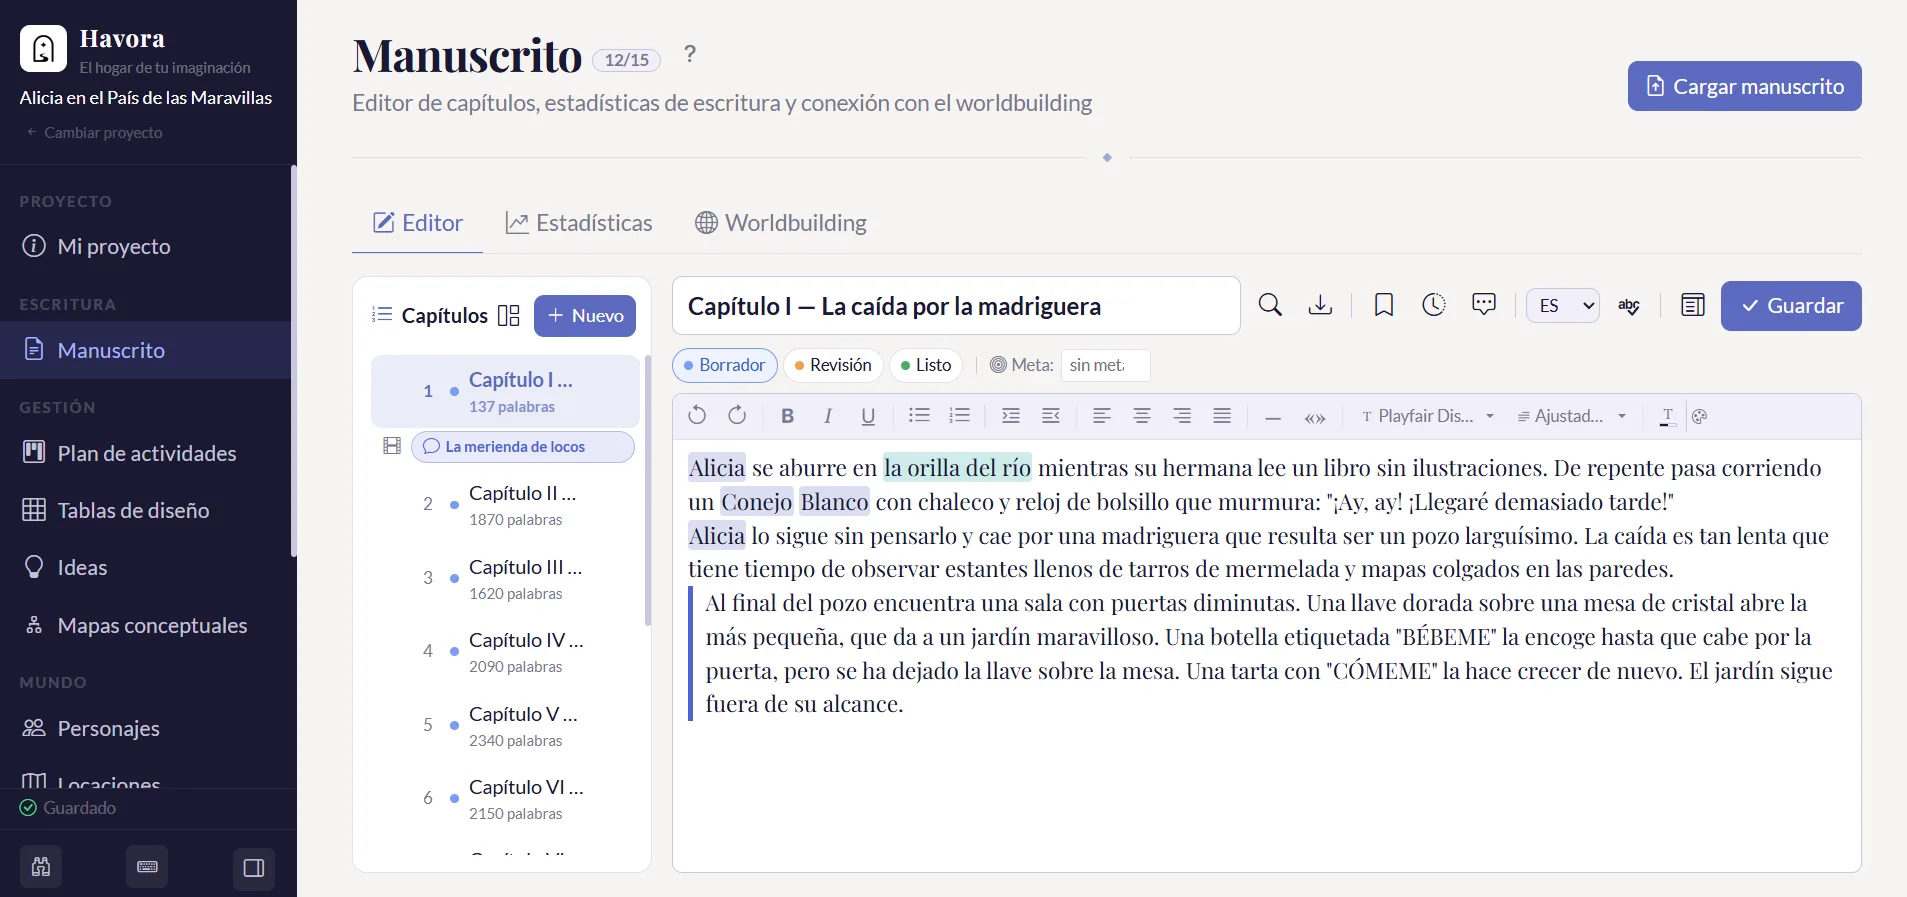
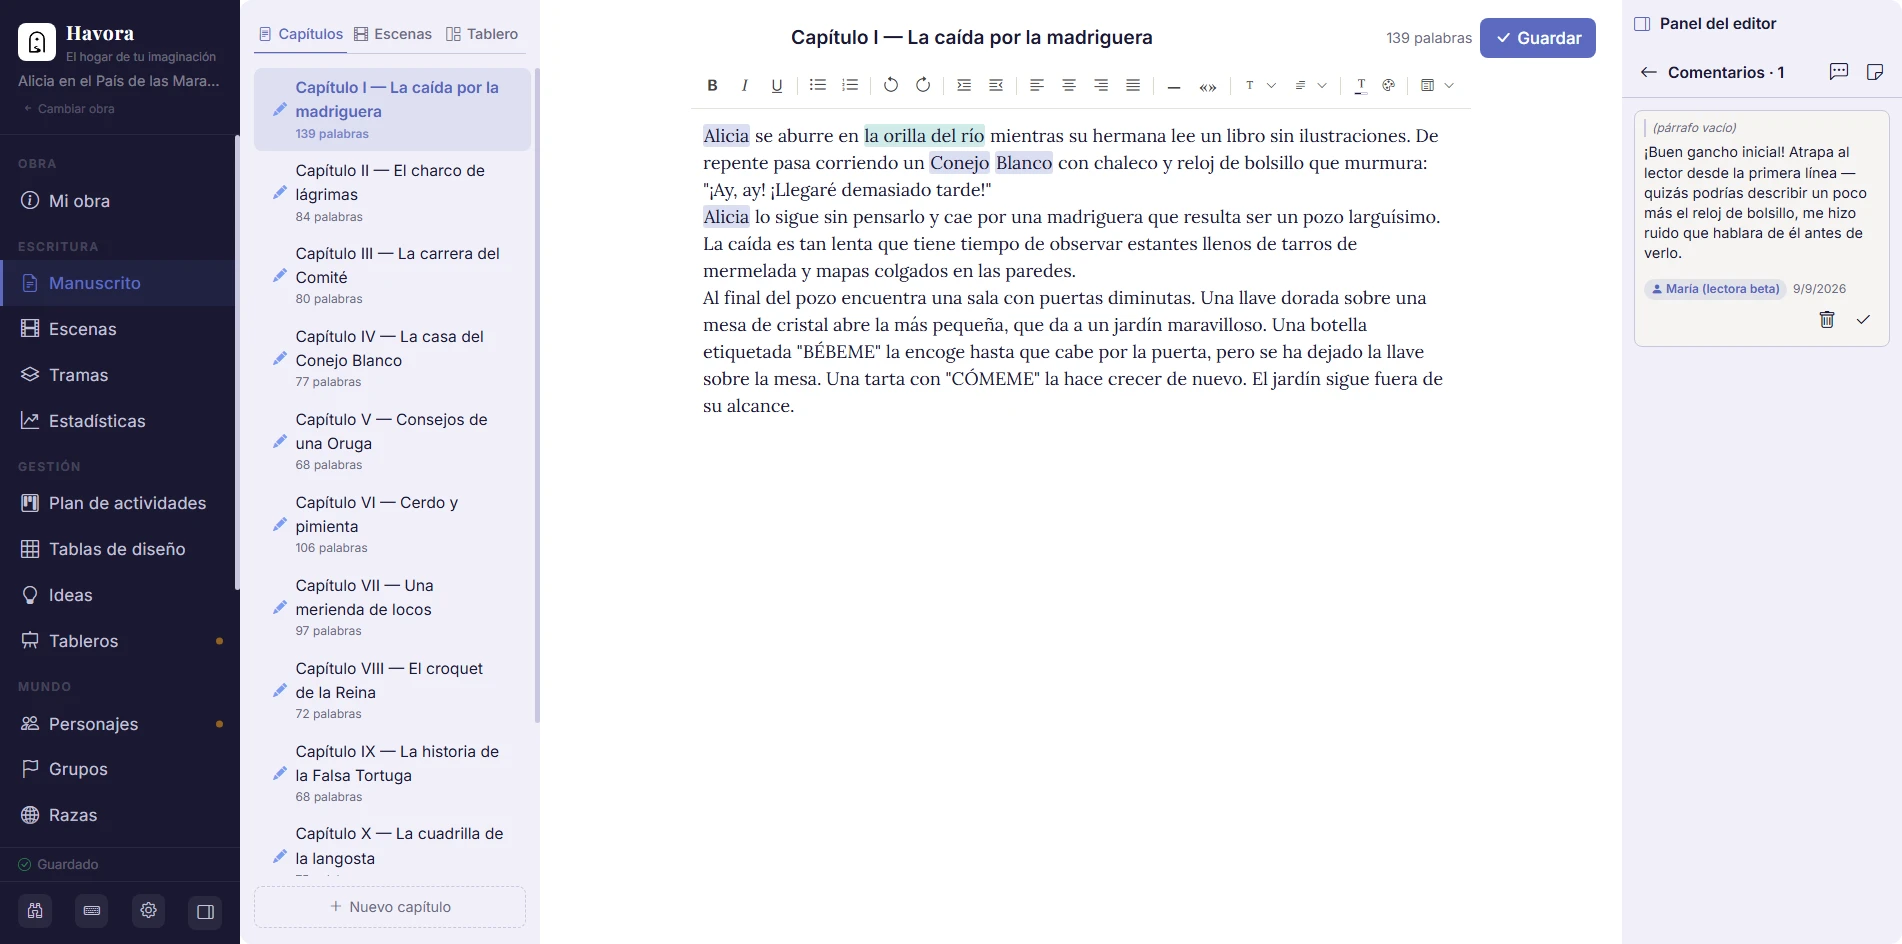
feat: solo Microsoft Store — saca la descarga directa del .exe y la sección de SmartScreen
- Nav, hero, tarjeta Gratis y CTA final apuntan solo a la Microsoft Store (antes mezclaban un
  link directo al .exe de GitHub Releases con la Store).
- El hero usa el badge oficial "Consíguelo en Microsoft Store" (más peso visual que el botón de
  antes), con las 2 variantes oficiales (fondo claro/oscuro) alternando según el tema de la página.
- Se elimina toda la sección "Instalación segura / SmartScreen" (HTML y CSS): ya no aplica, la
  Store nunca dispara ese aviso.
- Se actualiza la captura de Editor de manuscrito (assets/wf-editor.webp) al diseño actual de la
  app — la anterior era de antes del rediseño v2.0.0 (sidebar/nomenclatura vieja).

diff --git a/index.html b/index.html
@@ -66,6 +66,25 @@ nav{background:var(--sidebar);border-bottom:1px solid rgba(255,255,255,.06);padd
 .hero-actions .btn-primary{font-size:1rem;padding:13px 28px}
 .btn-outline{color:var(--text2);font-size:.9rem;font-weight:500;padding:12px 18px;border-radius:7px;border:1px solid var(--border);transition:all .15s;text-decoration:none;display:inline-flex;align-items:center}
 .btn-outline:hover{color:var(--text);border-color:var(--muted)}
+/* Badge oficial "Consíguelo en Microsoft Store" — reemplaza la descarga directa del .exe como
+   única forma de instalar Havora (pedido real: "elimina el boton de descarga directa y dale mas
+   enfasis a que se descarga por la store de microsoft"). El badge ya trae su propio fondo/marco, así
+   que no se envuelve en .btn-primary/.btn-outline (se vería un botón dentro de otro) — crece un
+   poco al hover, con la misma sombra de acento que .btn-primary para que siga leyéndose como LA
+   acción principal. Dos variantes oficiales (fondo oscuro para fondo claro, y viceversa) alternan
+   con el mismo criterio de 3 casos que ya usan los tokens de color de arriba (sistema/explícito). */
+.ms-badge-link{display:inline-flex;border-radius:7px;transition:transform .15s,box-shadow .15s}
+.ms-badge-link:hover{transform:translateY(-1px);box-shadow:0 6px 16px color-mix(in srgb,var(--accent) 35%,transparent)}
+.ms-badge-dark{display:inline-block}
+.ms-badge-light{display:none}
+@media(prefers-color-scheme:dark){
+  :root:not([data-theme=light]) .ms-badge-dark{display:none}
+  :root:not([data-theme=light]) .ms-badge-light{display:inline-block}
+}
+:root[data-theme=dark] .ms-badge-dark{display:none}
+:root[data-theme=dark] .ms-badge-light{display:inline-block}
+:root[data-theme=light] .ms-badge-dark{display:inline-block}
+:root[data-theme=light] .ms-badge-light{display:none}
 .hero-footnote{display:flex;justify-content:center;gap:22px;flex-wrap:wrap;font-size:.78rem;color:var(--muted);margin-bottom:56px}
 .hero-footnote span::before{content:'✓ ';color:var(--accent);font-weight:700}
 /* hero screenshot area */
@@ -277,27 +296,8 @@ nav{background:var(--sidebar);border-bottom:1px solid rgba(255,255,255,.06);padd
 .faq-a p{font-size:.875rem;color:var(--text2);line-height:1.75}
 .faq-a li{font-size:.875rem;color:var(--text2);line-height:1.6}
 
-/* ── SMARTSCREEN ── */
-.install-intro{font-size:.9rem;color:var(--text2);max-width:580px;margin-bottom:40px;line-height:1.75}
-.install-steps{display:grid;grid-template-columns:repeat(auto-fit,minmax(280px,1fr));gap:32px}
-.install-step-num{font-size:.68rem;font-weight:700;letter-spacing:.13em;text-transform:uppercase;color:var(--accent);margin-bottom:6px}
-.install-step-label{font-size:.92rem;font-weight:600;color:var(--text);margin-bottom:14px}
-.install-step-note{font-size:.8rem;color:var(--muted);margin-top:12px;line-height:1.5}
-.ss-dialog{background:#1b1b2e;border-radius:8px;overflow:hidden;border:1px solid #2d2d44;max-width:380px;font-family:'Segoe UI',system-ui,sans-serif;box-shadow:0 8px 32px rgba(0,0,0,.35)}
-.ss-titlebar{background:#2d2d44;padding:8px 14px;font-size:.73rem;color:rgba(255,255,255,.5);display:flex;align-items:center;gap:8px}
-.ss-titlebar-dot{width:9px;height:9px;border-radius:50%}
-.ss-body{padding:22px 24px}
-.ss-row{display:flex;align-items:flex-start;gap:14px;margin-bottom:16px}
-.ss-shield-wrap{flex-shrink:0;width:40px;height:40px;background:#1e4db7;border-radius:50%;display:flex;align-items:center;justify-content:center}
-.ss-text-title{color:#fff;font-size:.9rem;font-weight:600;margin-bottom:4px}
-.ss-text-body{color:rgba(255,255,255,.55);font-size:.78rem;line-height:1.5}
-.ss-buttons{display:flex;flex-direction:column;gap:8px;margin-top:18px}
-.ss-btn{padding:8px 16px;border-radius:4px;font-size:.82rem;font-weight:500;text-align:center;cursor:default}
-.ss-btn-ghost{background:transparent;border:1px solid rgba(255,255,255,.18);color:rgba(255,255,255,.75)}
-.ss-btn-green{background:#107c10;color:#fff}
-.ss-link{color:#4ea6f0;font-size:.82rem;text-decoration:underline;cursor:default;margin-top:6px;display:inline-block}
-.install-note{margin-top:32px;background:color-mix(in srgb,var(--accent) 8%,transparent);border:1px solid color-mix(in srgb,var(--accent) 20%,transparent);border-radius:var(--r);padding:18px 22px;font-size:.84rem;color:var(--text2);line-height:1.6}
-.install-note strong{color:var(--text)}
+/* SmartScreen/instalación directa: sección eliminada (pedido real: "saca la parte de smartscreen
+   de la pagina" — ya no hace falta explicar el aviso de Windows, la Store no lo dispara nunca). */
 
 /* ── CTA FINAL ── */
 .cta-final{background:var(--sidebar);padding:100px 0;text-align:center;border-bottom:none}
@@ -389,8 +389,8 @@ footer{background:var(--sidebar);padding:32px 0}
       <a href="#comparativa" class="btn-nav hide-mobile">Comparativa</a>
       <a href="#planes" class="btn-nav hide-mobile">Planes</a>
       <a href="#faq" class="btn-nav hide-mobile">FAQ</a>
-      <a href="https://github.com/havorawb/havora/releases/download/v1.6.0/HavoraSetup-1.6.0.exe" class="btn-primary" onclick="trackDownload()">
-        ⬇ Descargar
+      <a href="https://apps.microsoft.com/detail/9NND2741FJHK" class="btn-primary" target="_blank" rel="noopener" onclick="trackDownload()">
+        🪟 Microsoft Store
       </a>
     </div>
   </div>
@@ -408,10 +408,10 @@ footer{background:var(--sidebar);padding:32px 0}
       <p class="hero-claim">Todo tu mundo, tus personajes y tu manuscrito en un solo lugar.</p>
       <p class="hero-sub">Sin cuenta, sin nube, sin pagos recurrentes — tus historias, siempre tuyas.</p>
       <div class="hero-actions">
-        <a href="https://github.com/havorawb/havora/releases/download/v1.6.0/HavoraSetup-1.6.0.exe" class="btn-primary" onclick="trackDownload()">
-          ⬇ Descargar Havora gratis
+        <a href="https://apps.microsoft.com/detail/9NND2741FJHK" class="ms-badge-link" target="_blank" rel="noopener" onclick="trackDownload()">
+          <img src="assets/ms-badge-dark.svg" class="ms-badge-dark" alt="Consíguelo en Microsoft Store" width="216" height="59">
+          <img src="assets/ms-badge-light.svg" class="ms-badge-light" alt="Consíguelo en Microsoft Store" width="216" height="59">
         </a>
-        <a href="https://apps.microsoft.com/detail/9NND2741FJHK" class="btn-outline" target="_blank" rel="noopener" onclick="trackDownload()">🪟 Microsoft Store</a>
         <a href="#como-funciona" class="btn-outline">Ver cómo funciona →</a>
       </div>
       <div class="hero-footnote">
@@ -923,8 +923,8 @@ footer{background:var(--sidebar);padding:32px 0}
           <li class="dim">Exportación a DOCX, EPUB y ODT</li>
           <li class="dim">Sin límites de contenido</li>
         </ul>
-        <a href="https://github.com/havorawb/havora/releases/download/v1.6.0/HavoraSetup-1.6.0.exe"
-           class="btn-outline" style="width:100%;justify-content:center" onclick="trackDownload()">Descargar gratis</a>
+        <a href="https://apps.microsoft.com/detail/9NND2741FJHK"
+           class="btn-outline" style="width:100%;justify-content:center" target="_blank" rel="noopener" onclick="trackDownload()">🪟 Obtener en Microsoft Store</a>
       </div>
 
       <div class="plan-card featured">
@@ -1070,86 +1070,6 @@ footer{background:var(--sidebar);padding:32px 0}
   </div>
 </section>
 
-<!-- INSTALACIÓN / SMARTSCREEN -->
-<section class="section" id="instalacion">
-  <div class="container">
-    <div class="section-label">Instalación segura</div>
-    <h2 class="section-title">¿Por qué aparece un aviso de Windows?</h2>
-    <p class="install-intro">
-      Windows SmartScreen muestra una advertencia cuando ejecutas una aplicación que todavía no tiene
-      suficientes descargas registradas — es un proceso normal para apps nuevas. Havora no contiene
-      malware. Solo necesitas dos clics para continuar:
-    </p>
-    <div class="install-note" style="margin-bottom:28px">
-      <strong>¿Preferís evitarlo directamente?</strong> Instalando Havora desde la
-      <a href="https://apps.microsoft.com/detail/9NND2741FJHK" target="_blank" rel="noopener" onclick="trackDownload()">Microsoft Store</a>
-      no aparece ningún aviso de SmartScreen — Windows instala y actualiza la app solo, en segundo plano.
-    </div>
-    <div class="install-steps">
-
-      <div>
-        <div class="install-step-num">Paso 1</div>
-        <div class="install-step-label">Haz clic en <strong>"Más información"</strong></div>
-        <div class="ss-dialog">
-          <div class="ss-titlebar">
-            <div class="ss-titlebar-dot" style="background:#ff5f57"></div>
-            <div class="ss-titlebar-dot" style="background:#febc2e"></div>
-            <div class="ss-titlebar-dot" style="background:#28c840"></div>
-            <span style="margin-left:6px">Windows protegió su PC</span>
-          </div>
-          <div class="ss-body">
-            <div class="ss-row">
-              <div class="ss-shield-wrap">
-                <svg width="22" height="22" viewBox="0 0 24 24" fill="none" stroke="#fff" stroke-width="2.2" stroke-linecap="round" stroke-linejoin="round"><path d="M12 22s8-4 8-10V5l-8-3-8 3v7c0 6 8 10 8 10z"/><line x1="12" y1="8" x2="12" y2="12"/><line x1="12" y1="16" x2="12.01" y2="16"/></svg>
-              </div>
-              <div>
-                <div class="ss-text-title">Windows protegió su PC</div>
-                <div class="ss-text-body" style="color:rgba(255,255,255,.65)">SmartScreen de Microsoft Defender evitó que se iniciara una aplicación desconocida. Ejecutar esta aplicación puede suponer un riesgo para tu PC.</div>
-              </div>
-            </div>
-            <div class="ss-buttons">
-              <div class="ss-btn ss-btn-ghost">No ejecutar</div>
-            </div>
-            <div class="ss-link"><span style="color:#4ea6f0;font-weight:700;margin-right:3px">→</span> Más información</div>
-          </div>
-        </div>
-      </div>
-
-      <div>
-        <div class="install-step-num">Paso 2</div>
-        <div class="install-step-label">Haz clic en <strong>"Ejecutar de todas formas"</strong></div>
-        <div class="ss-dialog">
-          <div class="ss-titlebar">
-            <div class="ss-titlebar-dot" style="background:#ff5f57"></div>
-            <div class="ss-titlebar-dot" style="background:#febc2e"></div>
-            <div class="ss-titlebar-dot" style="background:#28c840"></div>
-            <span style="margin-left:6px">Windows protegió su PC</span>
-          </div>
-          <div class="ss-body">
-            <div class="ss-row">
-              <div class="ss-shield-wrap">
-                <svg width="22" height="22" viewBox="0 0 24 24" fill="none" stroke="#fff" stroke-width="2.2" stroke-linecap="round" stroke-linejoin="round"><path d="M12 22s8-4 8-10V5l-8-3-8 3v7c0 6 8 10 8 10z"/></svg>
-              </div>
-              <div>
-                <div class="ss-text-title">HavoraSetup-1.6.0.exe</div>
-                <div class="ss-text-body">Editor: <strong style="color:rgba(255,255,255,.8)">havorawb</strong></div>
-              </div>
-            </div>
-            <div class="ss-buttons">
-              <div class="ss-btn ss-btn-green"><span style="font-weight:700;margin-right:4px">→</span> Ejecutar de todas formas</div>
-              <div class="ss-btn ss-btn-ghost">No ejecutar</div>
-            </div>
-          </div>
-        </div>
-        <div class="install-step-note">La instalación continuará normalmente. Tus proyectos y datos quedan solo en tu equipo.</div>
-      </div>
-
-    </div>
-    <div class="install-note">
-      <strong>¿Por qué ocurre esto?</strong> SmartScreen construye reputación por número de descargas — las apps nuevas siempre lo muestran, independientemente de si son seguras o no. A medida que más usuarios descarguen Havora, el aviso desaparecerá automáticamente.
-    </div>
-  </div>
-</section>
 
 <!-- CTA FINAL -->
 <section class="cta-final">
@@ -1157,8 +1077,8 @@ footer{background:var(--sidebar);padding:32px 0}
     <div class="eyebrow">Empieza hoy</div>
     <h2>Tu historia tiene un<br><em>mundo entero</em> esperando.</h2>
     <p>Construye tu primer mundo en cinco minutos. Sin cuenta, sin tarjeta, sin plazo.</p>
-    <a href="https://github.com/havorawb/havora/releases/download/v1.6.0/HavoraSetup-1.6.0.exe" class="btn-primary" onclick="trackDownload()">
-      ⬇ Descargar Havora — empieza hoy
+    <a href="https://apps.microsoft.com/detail/9NND2741FJHK" class="btn-primary" target="_blank" rel="noopener" onclick="trackDownload()">
+      🪟 Obtener en Microsoft Store
     </a>
     <div class="cta-footnote">Windows 10 / 11 · Sin cuenta · Sin tarjeta de crédito</div>
     <p class="cta-discount-note" id="ctaDiscountNote"></p>
@@ -2275,7 +2195,8 @@ function trackDownload() {
       body: JSON.stringify({ type: 'download', page: location.pathname }),
     });
   } catch (e) {}
-  // No se bloquea la navegación: el enlace sigue a GitHub Releases normalmente.
+  // No se bloquea la navegación: el enlace sigue normalmente (hoy, siempre a la Microsoft Store —
+  // se sacó la descarga directa del .exe, pedido real: "elimina el boton de descarga directa").
 }
 
 // Lightbox para ampliar capturas: clic en cualquier imagen .zoomable la muestra a tamaño completo.
